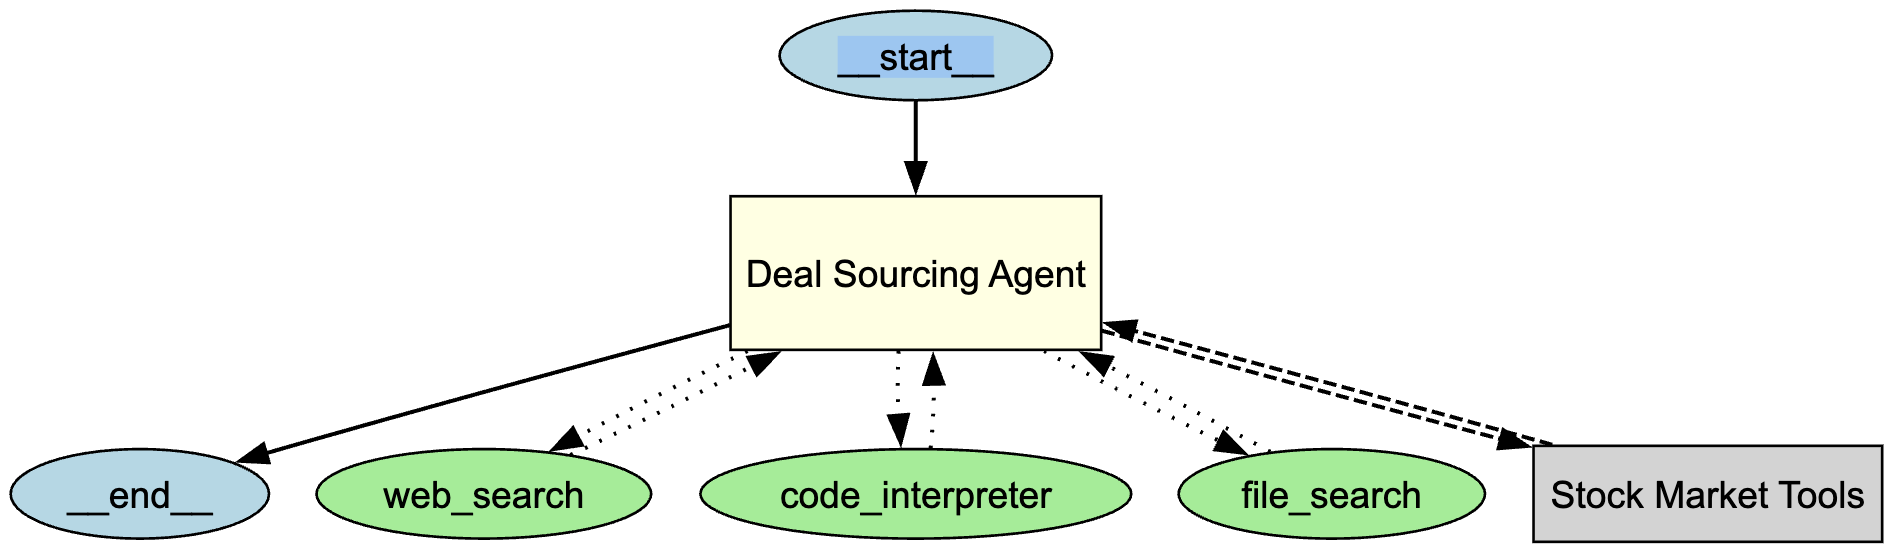
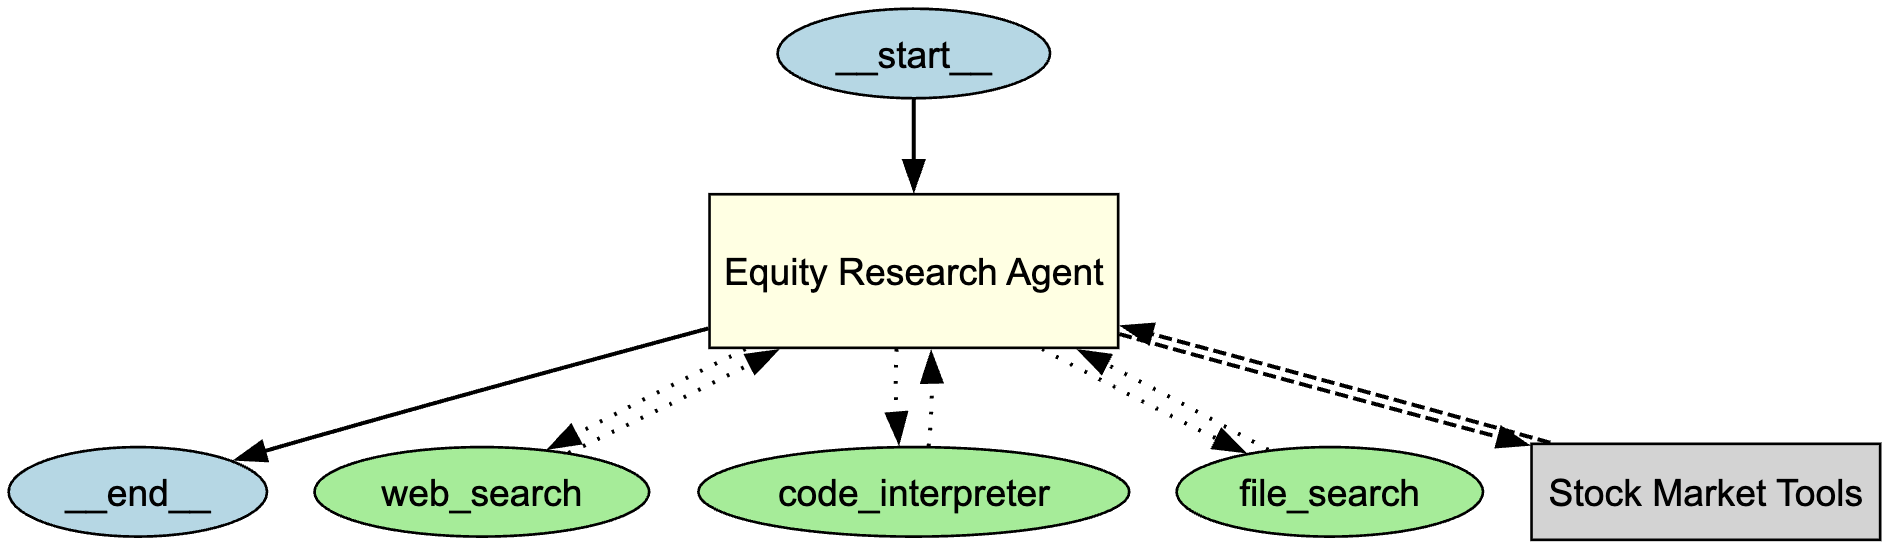
update agent graph, readme

diff --git a/README.md b/README.md
@@ -30,7 +30,9 @@ The system operates in a two-stage pipeline:
 
 ## 1. The Research Agent 🕵♂
 
-Located in `nb/agent.ipynb`, the Deal Sourcing Agent is built using a proprietary agentic framework powered by `gpt-5.1`. It acts as the initial gatherer of intelligence, compiling a comprehensive "memo-like" writeup on a target company.
+Located in `nb/agent.ipynb`, the Equity Research Agent is built using a proprietary agentic framework powered by `gpt-5.1`. It acts as the initial gatherer of intelligence, compiling a comprehensive "memo-like" writeup on a target company.
+
+![Research Agent](docs/research_agent.png)
 
 ### Capabilities & Tools
 The agent is equipped with a suite of tools to ensure exhaustive coverage:
@@ -66,6 +68,8 @@ The second stage involves a custom Small Language Model (SLM) fine-tuned specifi
     -   **Format:** Trained to output a `<think>` block followed by the verdict, encouraging the model to "reason" before deciding.
     -   **Performance:** Achieved minimal overfitting (Train/Eval loss gap ~0.01) and strong generalization on holdout sets.
 
+![Training Loss](docs/loss_curve.png)
+
 ## 📂 Project Structure
 
 ```text
@@ -74,9 +78,10 @@ winterfest_applied_ai_pe/
 │   ├── docs/                   # Internal documents for RAG (PDFs, etc.)
 │   ├── output/                 # Generated research reports
 │   ├── training_data_*.jsonl   # Synthetic datasets for fine-tuning
-│   └── ...
-├── helpers/                    # Utility scripts (LLM streaming, etc.)
+│   └── ...    
+├── docs/              
 ├── nb/
+│   ├── helpers/                # Utility scripts (LLM streaming, etc.)  
 │   ├── agent.ipynb             # Stage 1: Research Agent implementation
 │   ├── training_data_generator.ipynb # Generates synthetic training data
 │   └── training_recipe.ipynb   # Stage 2: Model Fine-tuning workflow
